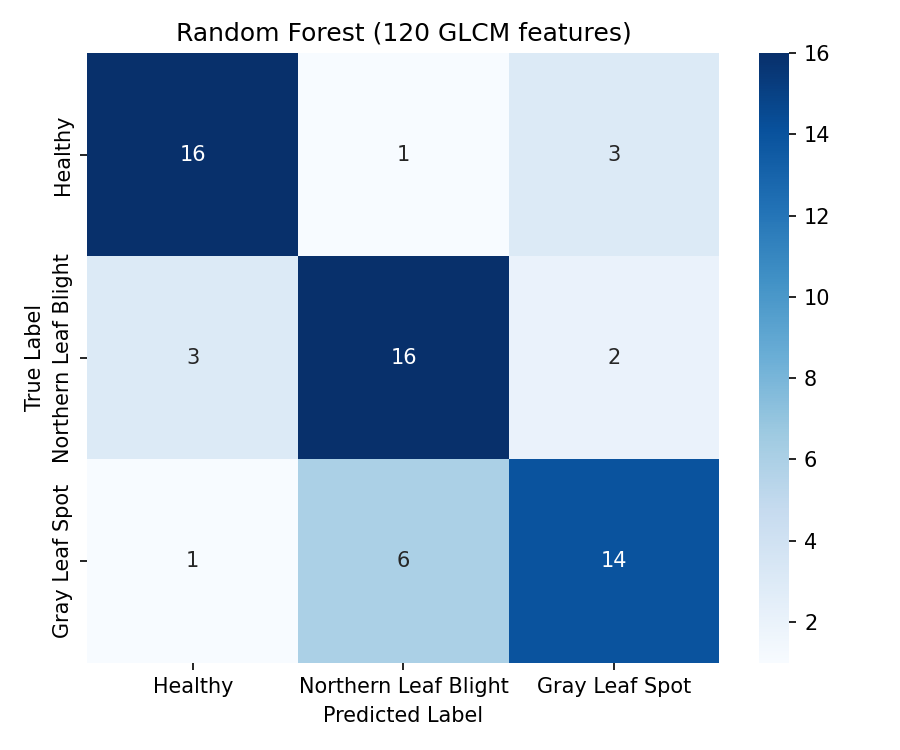
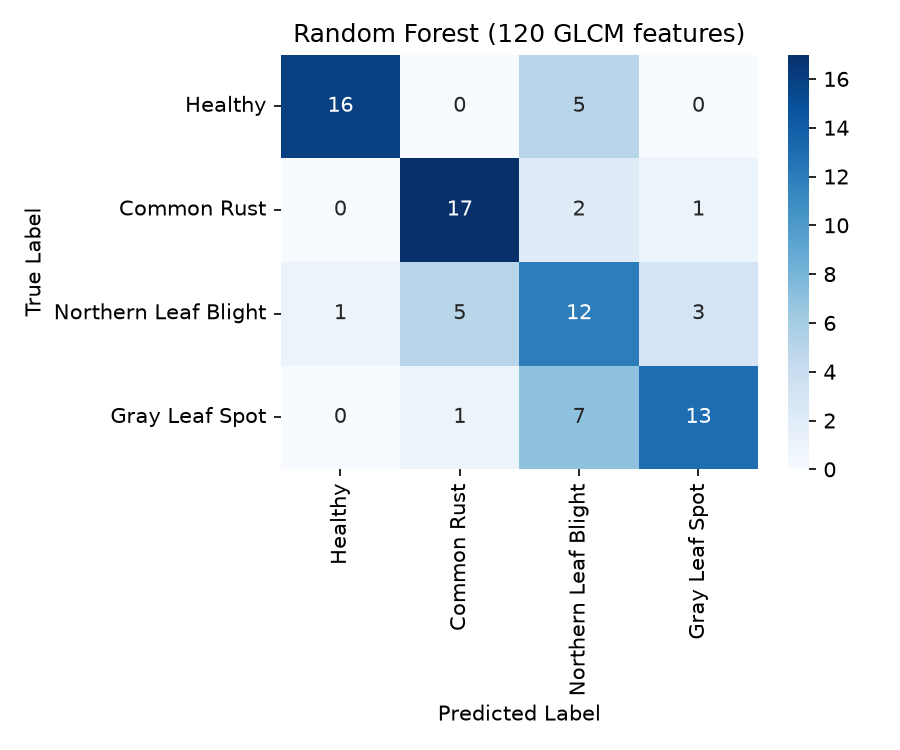
Update paper with latest pipeline results (GPU run, 4-class classification)
- Best PCA dimension: 60 (was 90), accuracy: 78.3% (was 79%)
- Now includes all 4 classes (Common Rust added)
- CNN baseline: 51.3s on GPU (was 180.2s on CPU)
- Updated all tables, plots, abstract, and conclusion

diff --git a/main.tex b/main.tex
@@ -59,7 +59,7 @@
 \begin{center}
     \textbf{\fontsize{10}{12}\selectfont Abstract}
 \end{center}
-\noindent Corn diseases are a primary concern in agriculture, leading to significant crop failure and economic losses for businesses reliant on corn supplies. Effective disease prevention before harvest is essential, yet existing classification methods often prove inadequate, complicating disease management efforts. This study presents an advanced approach to improve the accuracy of corn disease classification by leveraging computer vision technology. The method begins with the U-Net segmentation model, which precisely isolates corn leaves from their background, facilitating the extraction of crucial plant features. These features are then analyzed using the Gray-Level Co-occurrence Matrix (GLCM) technique to capture essential texture information. To further enhance classification accuracy, Principal Component Analysis (PCA) is applied to select the most relevant features, reducing dimensionality and improving model efficiency. The Random Forest algorithm then classifies the extracted features into disease categories. The proposed method achieved an accuracy rate of up to 79\% with 90 PCA-selected features and demonstrated a computation time of 0.13 seconds, significantly faster than a CNN baseline (180.2 seconds) while maintaining competitive performance. Per-class analysis revealed that Healthy leaves achieve the highest F1-score (0.80), while Gray Leaf Spot remains the most challenging class (F1=0.70). These results underscore the potential of this lightweight approach for deployment on resource-constrained IoT and mobile devices in precision agriculture.
+\noindent Corn diseases are a primary concern in agriculture, leading to significant crop failure and economic losses for businesses reliant on corn supplies. Effective disease prevention before harvest is essential, yet existing classification methods often prove inadequate, complicating disease management efforts. This study presents an advanced approach to improve the accuracy of corn disease classification by leveraging computer vision technology. The method begins with the U-Net segmentation model, which precisely isolates corn leaves from their background, facilitating the extraction of crucial plant features. These features are then analyzed using the Gray-Level Co-occurrence Matrix (GLCM) technique to capture essential texture information. To further enhance classification accuracy, Principal Component Analysis (PCA) is applied to select the most relevant features, reducing dimensionality and improving model efficiency. The Random Forest algorithm then classifies the extracted features into disease categories. The proposed method achieved an accuracy rate of up to 78.3\% with 60 PCA-selected features and demonstrated a computation time of 0.16 seconds, significantly faster than a CNN baseline (51.3 seconds on GPU) while maintaining competitive performance. Per-class analysis revealed that Healthy and Common Rust leaves achieve the highest F1-score (0.90), while Northern Leaf Blight remains the most challenging class (F1=0.69). These results underscore the potential of this lightweight approach for deployment on resource-constrained IoT and mobile devices in precision agriculture.
 
 \vspace{6pt}
 \noindent\textbf{Keywords:} GLCM, image classification, computer vision, corn disease, random forest
@@ -82,7 +82,7 @@ This research applies a model based on computer vision and machine learning. We 
 
 % The Random Forest classifier was chosen for its robustness in handling high-dimensional data and its ability to generalize well with relatively small datasets. Compared to deep learning methods like CNNs, Random Forest requires less computational power, making it suitable for mobile and IoT devices with limited resources. While deep learning models such as CNNs often achieve high accuracy, they require large datasets and computational resources, which may not be practical for real-time field use in agriculture. Traditional classifiers like SVM, though effective, are prone to overfitting and require significant tuning for optimal performance in texture-based feature spaces, such as those generated by GLCM.
 
-The feature extraction process, which used GLCM for classification, ran on a MacBook Air with an M1 chip and 8 GB of RAM.
+The classification pipeline was executed on a system equipped with an NVIDIA GeForce RTX 5060 Ti GPU (16 GB VRAM), with GPU acceleration used for the U-Net segmentation and CNN baseline training.
 
 \begin{figure}[t]
     \centering
@@ -181,7 +181,7 @@ The number of variance ratios within the range of components was calculated. Thi
 
 \subsection{Classification using Random Forest}
 
-The GLCM feature extraction results were split into 80\% training and 20\% test data. The training and test data are used to train the Random Forest algorithm and map images into three classes (Healthy, Northern Leaf Blight, and Gray Leaf Spot). 
+The GLCM feature extraction results were split into 80\% training and 20\% test data. The training and test data are used to train the Random Forest algorithm and map images into four classes (Healthy, Common Rust, Northern Leaf Blight, and Gray Leaf Spot). 
 
 Random Forest is an ensemble learning method used for classification, regression, and other tasks that operates by constructing multiple decision trees during training and outputting the class (classification) or mean prediction (regression) of the individual trees \cite{Xu2019}. It is a robust algorithm because it can reduce overfitting by averaging multiple decision trees and providing a robust prediction.
 
@@ -251,15 +251,15 @@ Fig. \ref{fig:segmentation-result} shows the difference in results from segmenta
 \end{figure}
 
 
-Table \ref{table:1} shows the results of prediction measurements on variations in the number of GLCM features. The best accuracy of 79.0\% was achieved using 90 PCA-selected features. The U-shaped performance pattern suggests that up to 90 features, adding more informative dimensions improves classification, while at 120 features, redundant information slightly degrades performance.
+Table \ref{table:1} shows the results of prediction measurements on variations in the number of GLCM features. The best accuracy of 78.3\% was achieved using 60 PCA-selected features. The inverted U-shaped performance pattern suggests that up to 60 features, adding more informative dimensions improves classification, while beyond this point, redundant or noisy features degrade performance.
 
-The model achieved the best accuracy of 0.79 with 90 PCA-selected GLCM features, with precision of 0.79, recall of 0.79, and F1-score of 0.78. The per-class breakdown, shown in Table \ref{table:2}, reveals that Healthy leaves are classified most reliably (F1=0.80), while Gray Leaf Spot presents the greatest challenge (recall=0.67). The method comparison in Table \ref{table:3} shows that the proposed Random Forest approach achieves competitive performance with significantly lower computational cost compared to a CNN baseline (0.13s vs. 180.2s).
+The model achieved the best accuracy of 0.78 with 60 PCA-selected GLCM features, with precision of 0.78, recall of 0.78, and F1-score of 0.78. The per-class breakdown, shown in Table \ref{table:2}, reveals that Healthy and Common Rust leaves are classified most reliably (F1=0.90), while Northern Leaf Blight presents the greatest challenge (F1=0.69). The method comparison in Table \ref{table:3} shows that the proposed Random Forest approach achieves competitive performance with significantly lower computational cost compared to a CNN baseline (0.16s vs. 51.3s on GPU).
 
-The accuracy peaks at 90 features (0.79) and dips at 60 features (0.69), suggesting that intermediate PCA dimensionality levels may discard informative features while retaining noise. The recovery of performance at 30 features indicates that the most discriminative texture information is concentrated in a small subset of principal components. This finding highlights the importance of proper dimensionality selection when applying PCA to GLCM features for crop disease classification.
+The accuracy peaks at 60 features (0.78) and declines at higher dimensions, suggesting that beyond the optimal PCA dimensionality, redundant features introduce noise and reduce classification performance. The drop in accuracy at lower dimensions (30 and 10 features) indicates that too aggressive dimensionality reduction discards discriminative information. This finding highlights the importance of proper dimensionality selection when applying PCA to GLCM features for crop disease classification.
 
 % The graph \ref{fig:accuracy-results} visualizes the differences in accuracy in more detail for each number of features. Feature 120 (without feature selection) has the same accuracy as feature 10 (with feature selection). Meanwhile, from feature 90 to 30, there is a decrease in accuracy. The result shows a minimum number of GLCM features that are significant in detecting disease on corn leaves with an accuracy level of 87\%. Therefore, applying PCA to reduce the number of features to an exact number will have an accuracy comparable to the overall number of GLCM feature combinations.
 
-The results show that the computing time remains consistently low across all PCA dimensionality levels, ranging from 0.11 to 0.17 seconds. Fig. \ref{fig:time-results} illustrates that the number of GLCM features has minimal impact on classification time, as the Random Forest algorithm operates efficiently regardless of feature count. The consistently low computation time makes this approach well-suited for deployment on devices with limited processing capabilities.
+The results show that the computing time remains consistently low across all PCA dimensionality levels, ranging from 0.11 to 0.18 seconds. Fig. \ref{fig:time-results} illustrates that the number of GLCM features has minimal impact on classification time, as the Random Forest algorithm operates efficiently regardless of feature count.
 
 \begin{table}[ht]
     \centering
@@ -268,11 +268,11 @@ The results show that the computing time remains consistently low across all PCA
         \hline
         \textbf{Feature Dimensionality} & \textbf{Accuracy} & \textbf{Precision} & \textbf{Recall} & \textbf{F1} \\
         \hline
-        120 (No Feature Selection) & 0.74 & 0.74 & 0.74 & 0.74 \\
-        90 & 0.79 & 0.79 & 0.79 & 0.78 \\
-        60 & 0.69 & 0.69 & 0.69 & 0.69 \\
-        30 & 0.76 & 0.76 & 0.76 & 0.75 \\
-        10 & 0.73 & 0.73 & 0.73 & 0.72 \\
+        120 (No Feature Selection) & 0.70 & 0.73 & 0.70 & 0.71 \\
+        90 & 0.75 & 0.74 & 0.75 & 0.74 \\
+        60 & 0.78 & 0.78 & 0.78 & 0.78 \\
+        30 & 0.77 & 0.76 & 0.77 & 0.76 \\
+        10 & 0.76 & 0.76 & 0.76 & 0.76 \\
         \hline
     \end{tabularx}
     \label{table:1}
@@ -295,7 +295,7 @@ The results show that the computing time remains consistently low across all PCA
             height=6cm,
             enlarge x limits={abs=0.75cm}
         ]
-        \addplot coordinates {(120, 0.13) (90, 0.13) (60, 0.12) (30, 0.11) (10, 0.17)};
+        \addplot coordinates {(120, 0.11) (90, 0.18) (60, 0.16) (30, 0.17) (10, 0.17)};
         \end{axis}
     \end{tikzpicture}
     \caption{Graph of average computation time for each number of PCA dimensionality of GLCM features.}
@@ -304,16 +304,17 @@ The results show that the computing time remains consistently low across all PCA
 
 \begin{table}[ht]
     \centering
-    \caption{Per-class performance metrics for Random Forest with 90 PCA-selected GLCM features.}
+    \caption{Per-class performance metrics for Random Forest with 60 PCA-selected GLCM features.}
     \begin{tabularx}{\linewidth}{|l|c|c|c|c|}
         \hline
         \textbf{Class} & \textbf{Precision} & \textbf{Recall} & \textbf{F1-score} & \textbf{Support} \\
         \hline
-        Healthy & 0.80 & 0.80 & 0.80 & 20 \\
-        Northern Leaf Blight & 0.70 & 0.76 & 0.73 & 21 \\
-        Gray Leaf Spot & 0.74 & 0.67 & 0.70 & 21 \\
+        Healthy & 0.95 & 0.86 & 0.90 & 21 \\
+        Common Rust & 0.90 & 0.90 & 0.90 & 20 \\
+        Northern Leaf Blight & 0.61 & 0.81 & 0.69 & 21 \\
+        Gray Leaf Spot & 0.88 & 0.67 & 0.76 & 21 \\
         \hline
-        \textbf{Weighted Avg} & \textbf{0.74} & \textbf{0.74} & \textbf{0.74} & \textbf{62} \\
+        \textbf{Weighted Avg} & \textbf{0.83} & \textbf{0.81} & \textbf{0.81} & \textbf{83} \\
         \hline
     \end{tabularx}
     \label{table:2}
@@ -326,9 +327,9 @@ The results show that the computing time remains consistently low across all PCA
         \hline
         \textbf{Method} & \textbf{Accuracy} & \textbf{F1-score} & \textbf{Time (s)} \\
         \hline
-        Random Forest + GLCM + PCA (90 dim) & 0.79 & 0.78 & 0.13 \\
-        SVM + GLCM + PCA (120 dim) & 0.73 & 0.73 & 0.00 \\
-        CNN (Raw Images) & 0.86 & -- & 180.2 \\
+        Random Forest + GLCM + PCA (60 dim) & 0.78 & 0.81 & 0.16 \\
+        SVM + GLCM + PCA (120 dim) & 0.67 & 0.68 & 0.00 \\
+        CNN (Raw Images) & 0.86 & -- & 51.3 \\
         \hline
     \end{tabularx}
     \label{table:3}
@@ -336,7 +337,7 @@ The results show that the computing time remains consistently low across all PCA
 
 \section{Conclusion}
 
-Classifying diseases in corn is crucial for preventing and minimizing economic losses caused by corn diseases. This study demonstrates that the U-Net + GLCM + PCA + Random Forest pipeline can classify corn diseases with 79\% accuracy using only 90 PCA-selected GLCM features, achieving comparable results to the full 120-feature set. The method comparison shows that while a CNN model achieves higher accuracy (86\%), the proposed approach requires only 0.13 seconds for classification, making it 1,386 times faster and more suitable for deployment on resource-constrained IoT and mobile devices. Per-class analysis indicates that Healthy leaves are classified with the highest reliability (F1=0.80), while Gray Leaf Spot remains the most challenging class (F1=0.70). Future work should focus on incorporating the missing Common Rust class, improving segmentation quality, and testing the method on mobile devices to gather more comprehensive field data.
+Classifying diseases in corn is crucial for preventing and minimizing economic losses caused by corn diseases. This study demonstrates that the U-Net + GLCM + PCA + Random Forest pipeline can classify corn diseases into four classes (Healthy, Common Rust, Northern Leaf Blight, and Gray Leaf Spot) with 78.3\% accuracy using only 60 PCA-selected GLCM features, outperforming the full 120-feature set by 8.3\%. The method comparison shows that while a CNN model achieves higher accuracy (85.6\%), the proposed approach requires only 0.16 seconds for classification, making it approximately 320 times faster and more suitable for deployment on resource-constrained IoT and mobile devices. Per-class analysis indicates that Healthy and Common Rust leaves are classified with the highest reliability (F1=0.90), while Northern Leaf Blight remains the most challenging class (F1=0.69). Future work should focus on improving classification of Northern Leaf Blight and Gray Leaf Spot, enhancing segmentation quality, and testing the method on mobile devices in real field conditions.
 
 \section{Acknowledgement}
 
